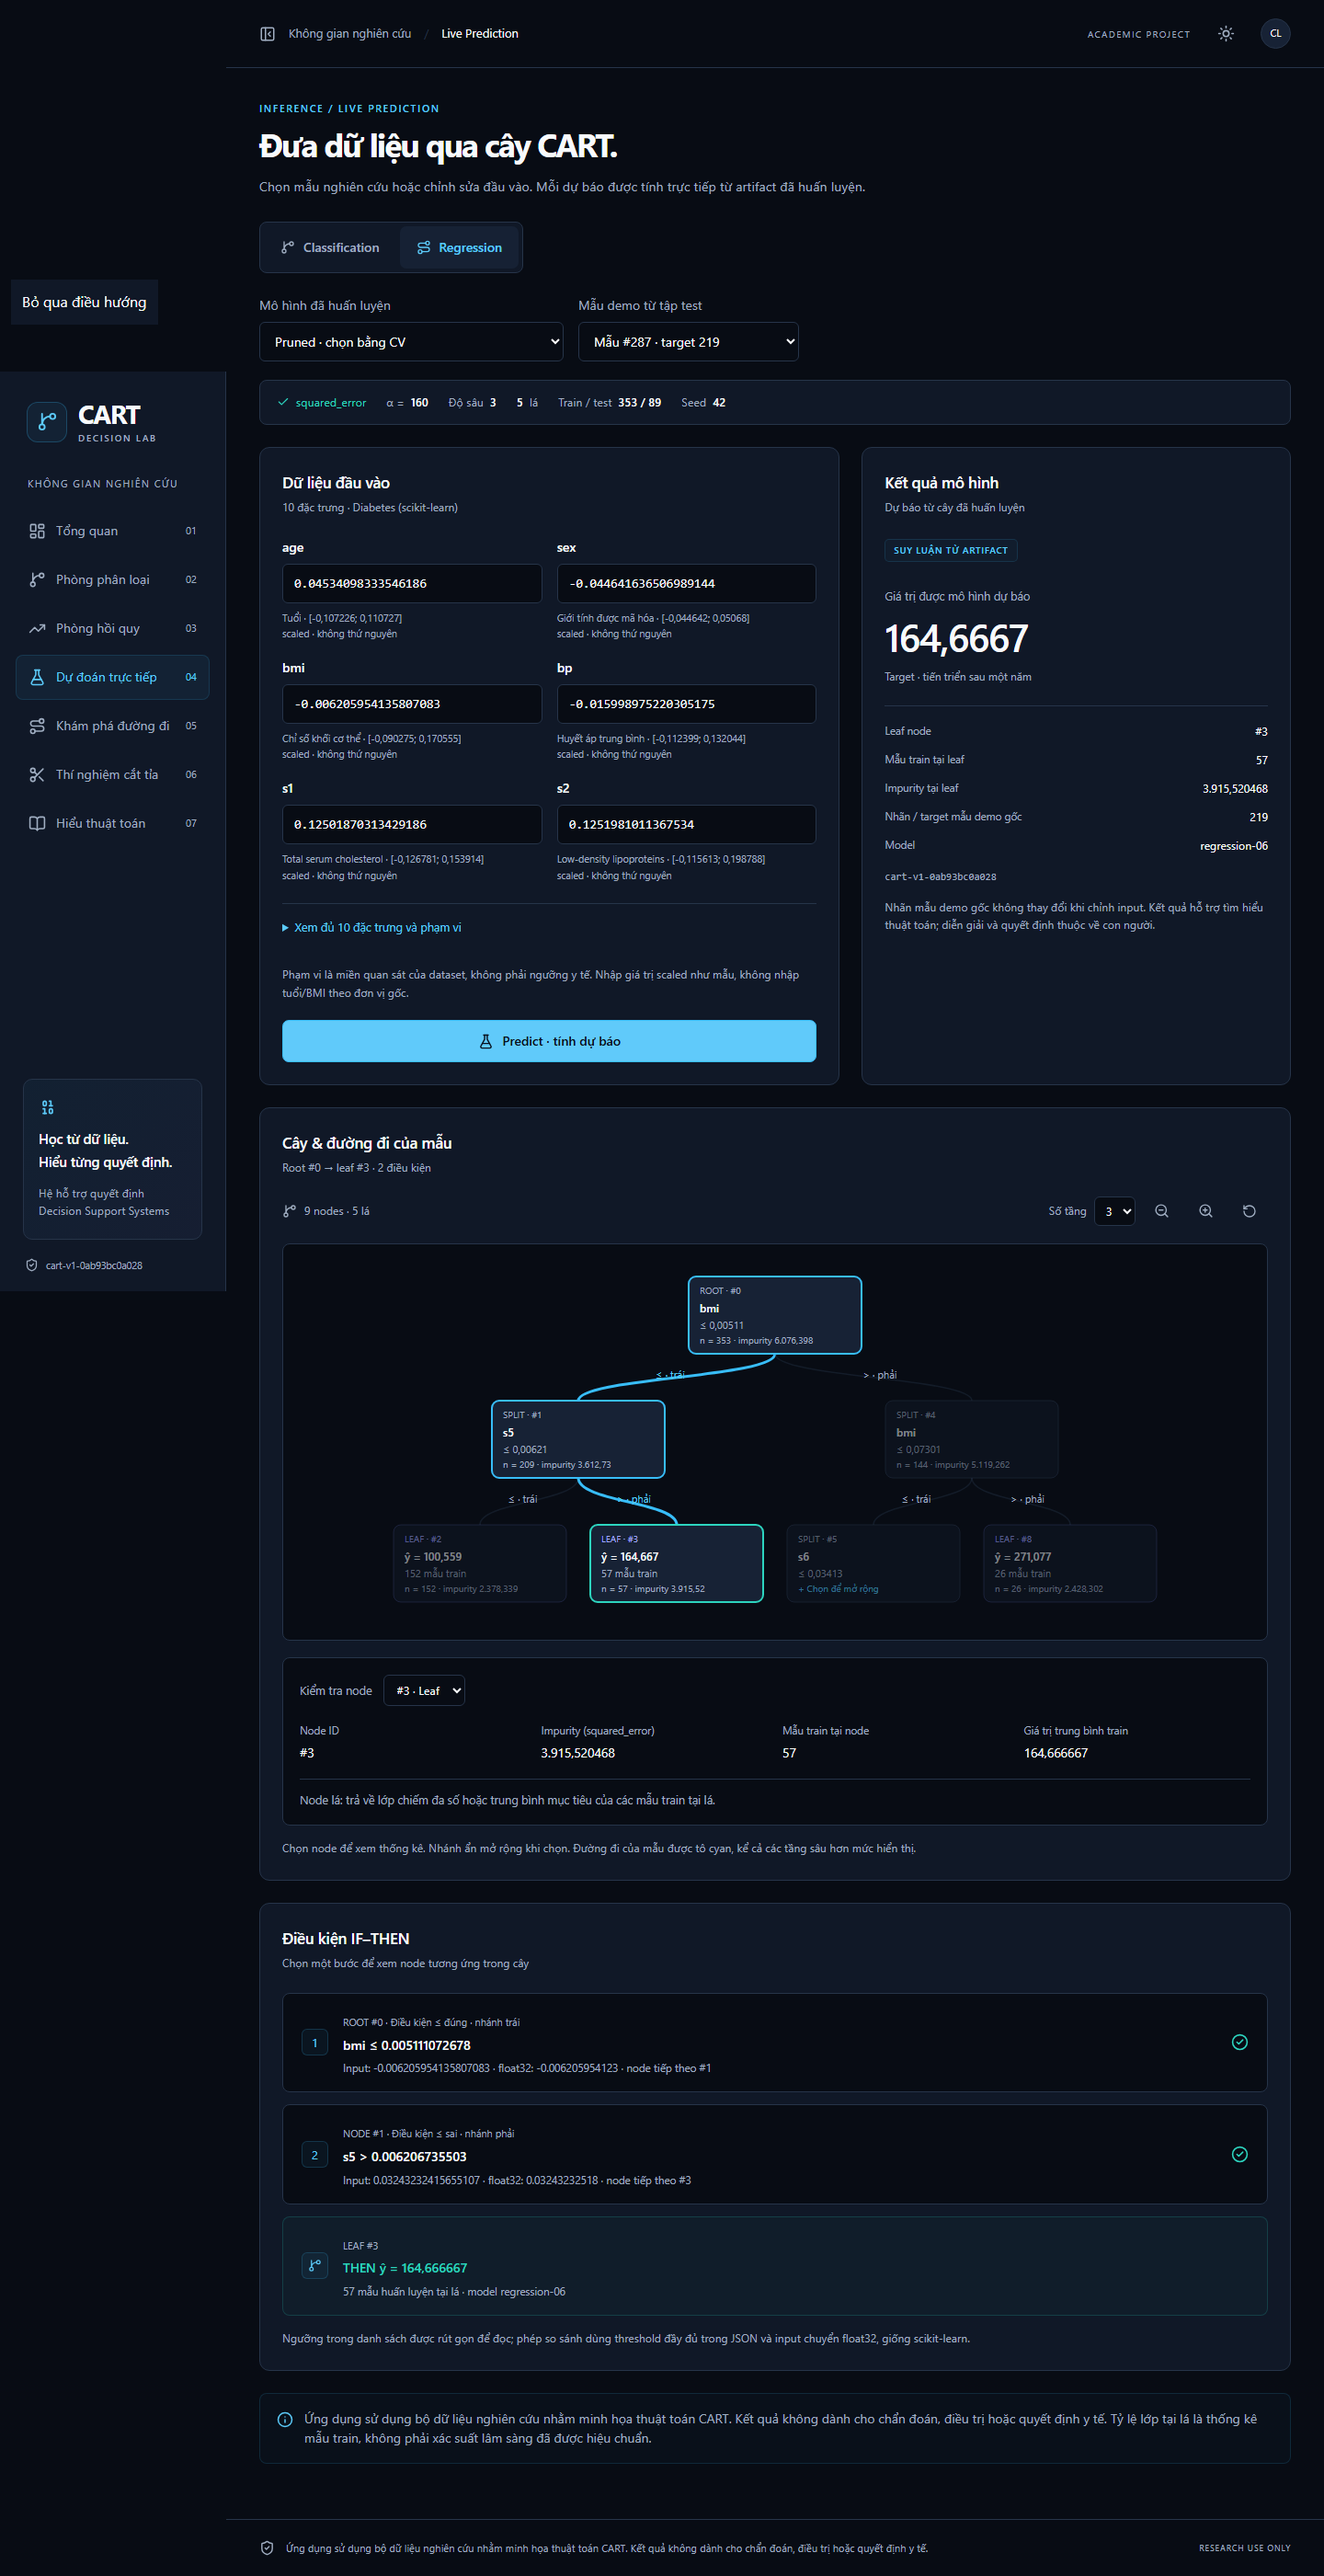
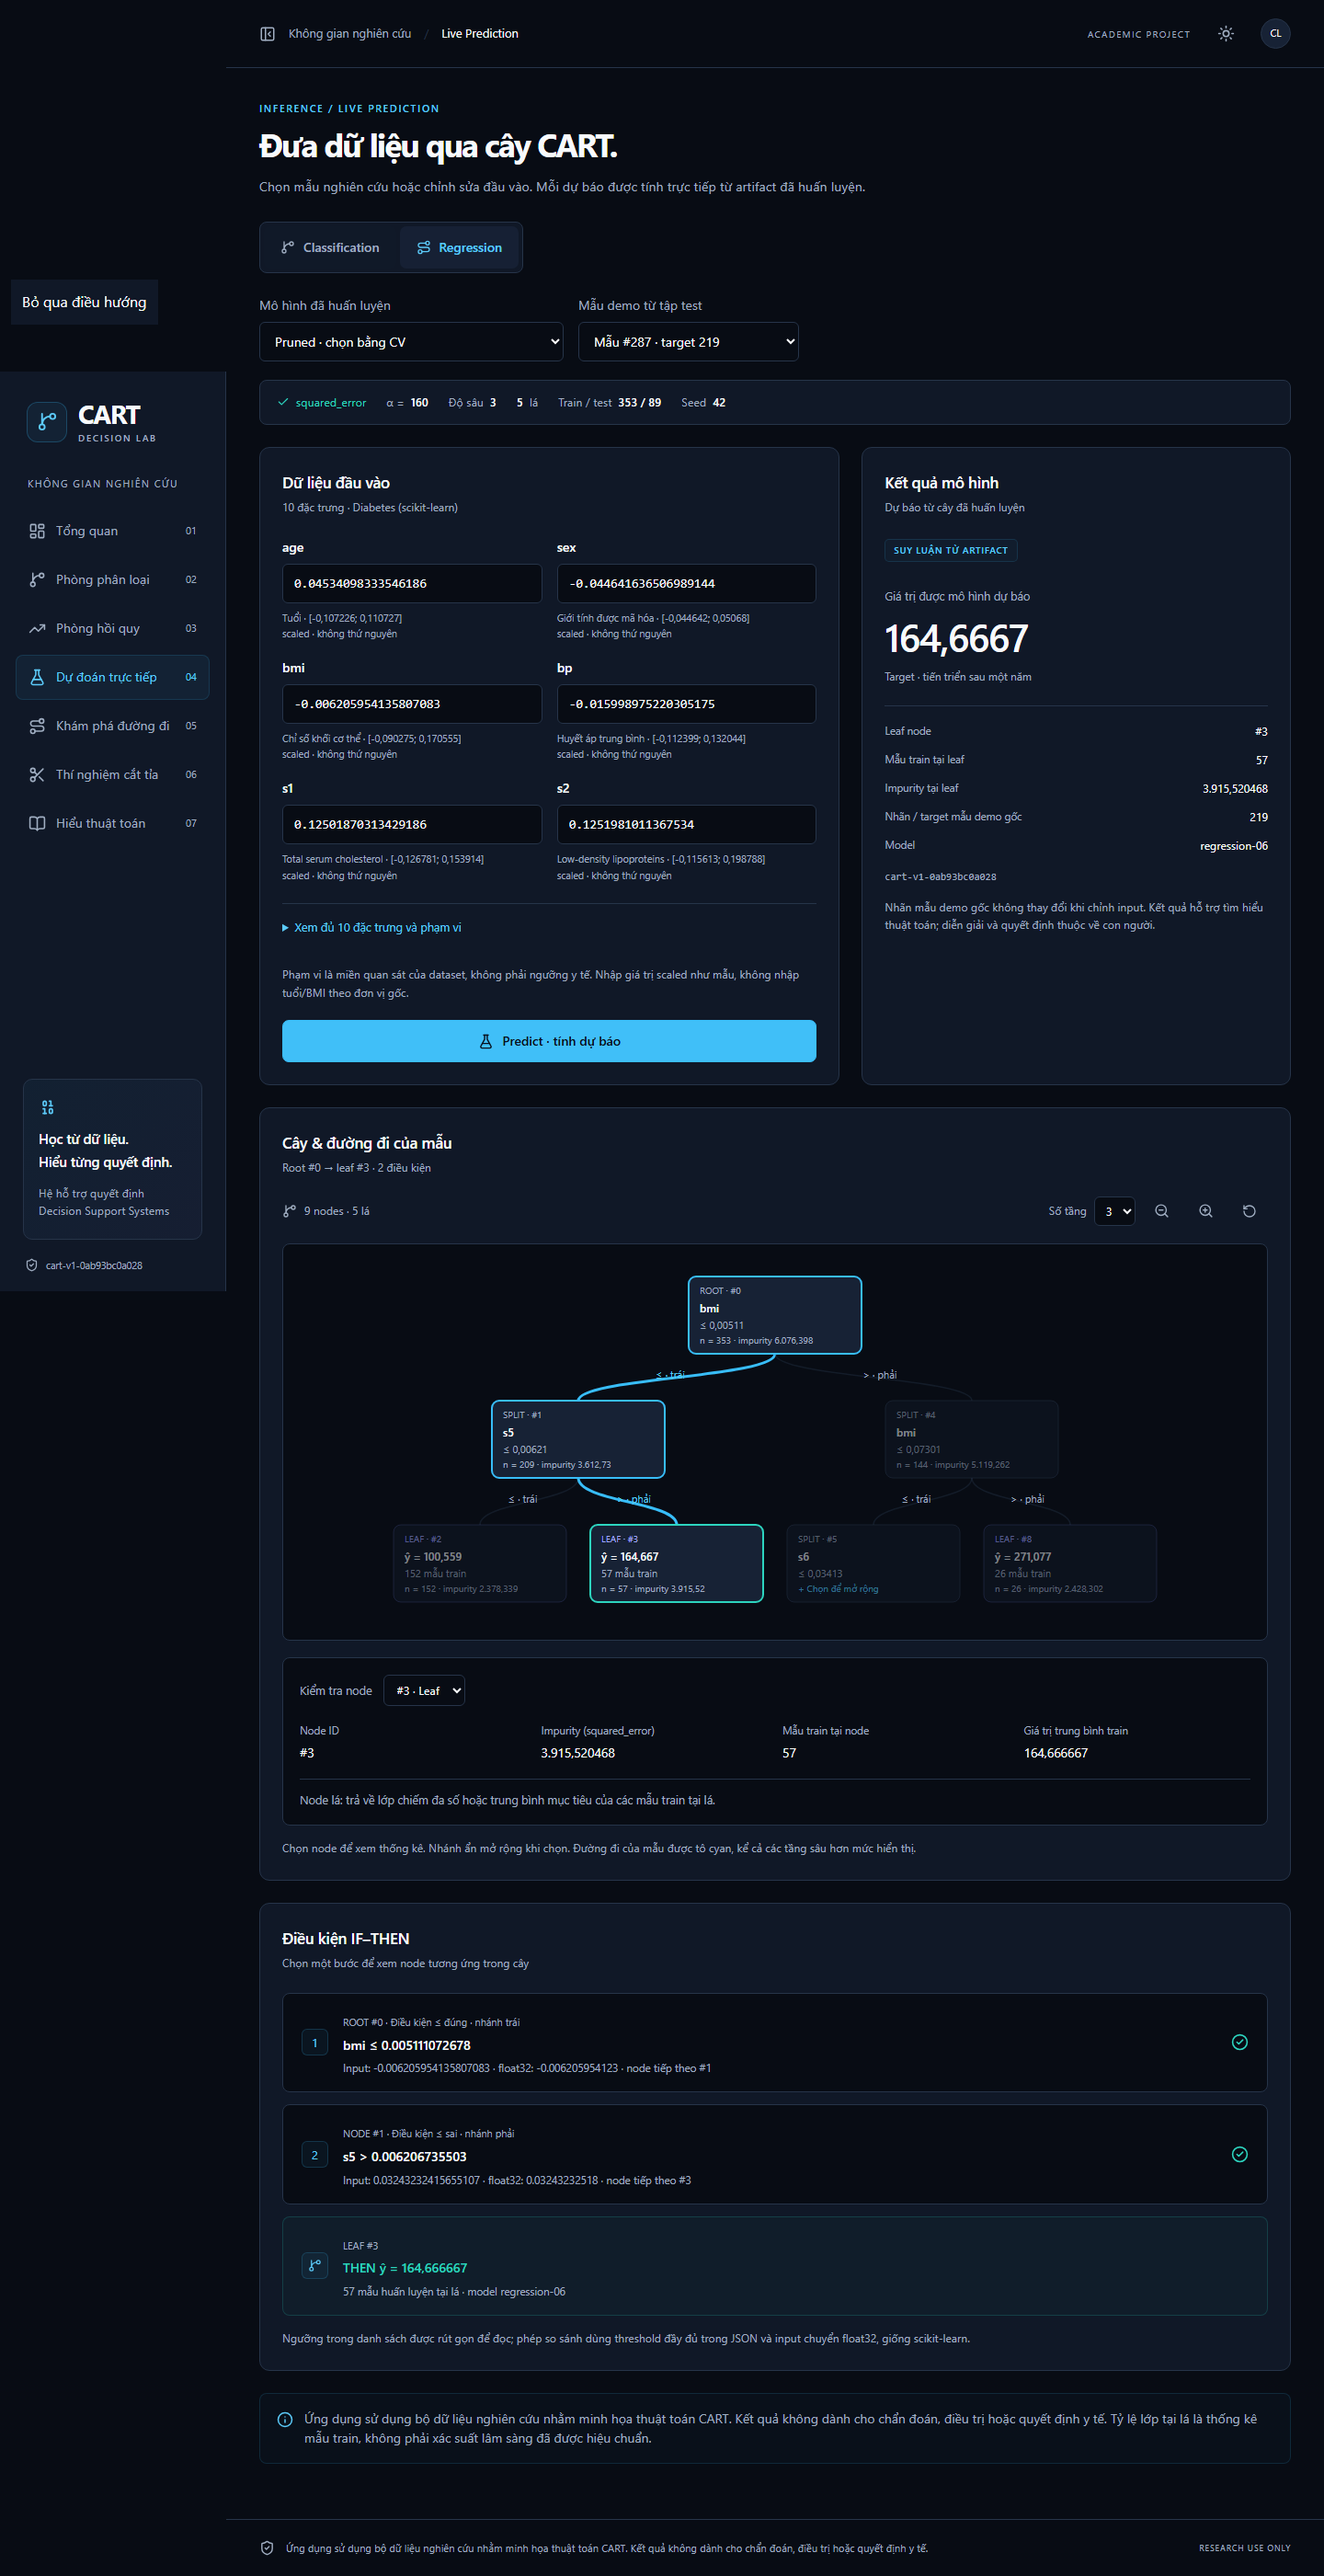
Verify Vercel deployment and add report evidence

Changed region(s): [[0.2188, 0.3727, 0.625, 0.4348]]

diff --git a/README.md b/README.md
@@ -94,7 +94,7 @@ Remove-Item Env:CART_BASE_URL
 
 ## GitHub / Vercel
 
-Dùng repository riêng `cart-decision-lab`. Vercel framework **Next.js**, root repository root, install `npm ci`, build `npm run build`. Không cần env vars. Artifacts commit cùng source; Python/fixtures không nằm trong runtime web. GitHub Actions có typecheck/lint/unit/ML/build/browser checks.
+Dùng repository riêng `cart-decision-lab`. Vercel framework **Next.js**, root repository root, install `npm ci`, build `npm run build`. Không cần env vars. Artifacts commit cùng source; Python/fixtures không nằm trong runtime web. GitHub Actions có typecheck/lint/unit/ML/build/browser checks. Production đã được xác minh tại [cart-decision-lab.vercel.app](https://cart-decision-lab.vercel.app) từ commit `8078b42`; bằng chứng deployment và kiểm thử public nằm trong `evidence/deployment.json` và `evidence/browser-tests.json`.
 
 Nếu CLI chưa đăng nhập: `npx vercel login` và xác thực qua trình duyệt; không gửi mật khẩu hay token qua chat. URL thật và trạng thái triển khai ghi trong `docs/STATUS.md` sau kiểm chứng. Test local không chứng minh production đã deploy.
 

diff --git a/docs/02-architecture.md b/docs/02-architecture.md
@@ -12,7 +12,7 @@ Python/scikit-learn → huấn luyện + 5-fold CV → chọn alpha trên train 
 - Test parity bao phủ tất cả 1.011 mẫu ở từng cấu hình phù hợp, đối chiếu prediction, distribution, leaf, toàn bộ path. Kiểm tra ngưỡng float32 riêng.
 - Artifact version dựa trên SHA-256 cấu trúc cây, split, schema, metrics; metadata ghi phiên bản Python/numpy/sklearn. Fixtures chỉ dùng trong kiểm thử, không đóng gói vào web.
 - Phạm vi input là miền quan sát của dataset, không phải giới hạn y tế. Reject tên sai, giá trị thiếu, nonfinite, ngoài miền; thứ tự do schema quyết định.
-- Triển khai đích: Vercel. Không lưu credentials vào repo. URL chỉ được ghi nhận sau kiểm chứng thật.
+- Triển khai: Vercel production đã xác minh tại https://cart-decision-lab.vercel.app từ commit 8078b42. Không lưu credentials vào repo; deployment evidence nằm trong evidence/deployment.json.
 
 ## Nguồn chính
 
